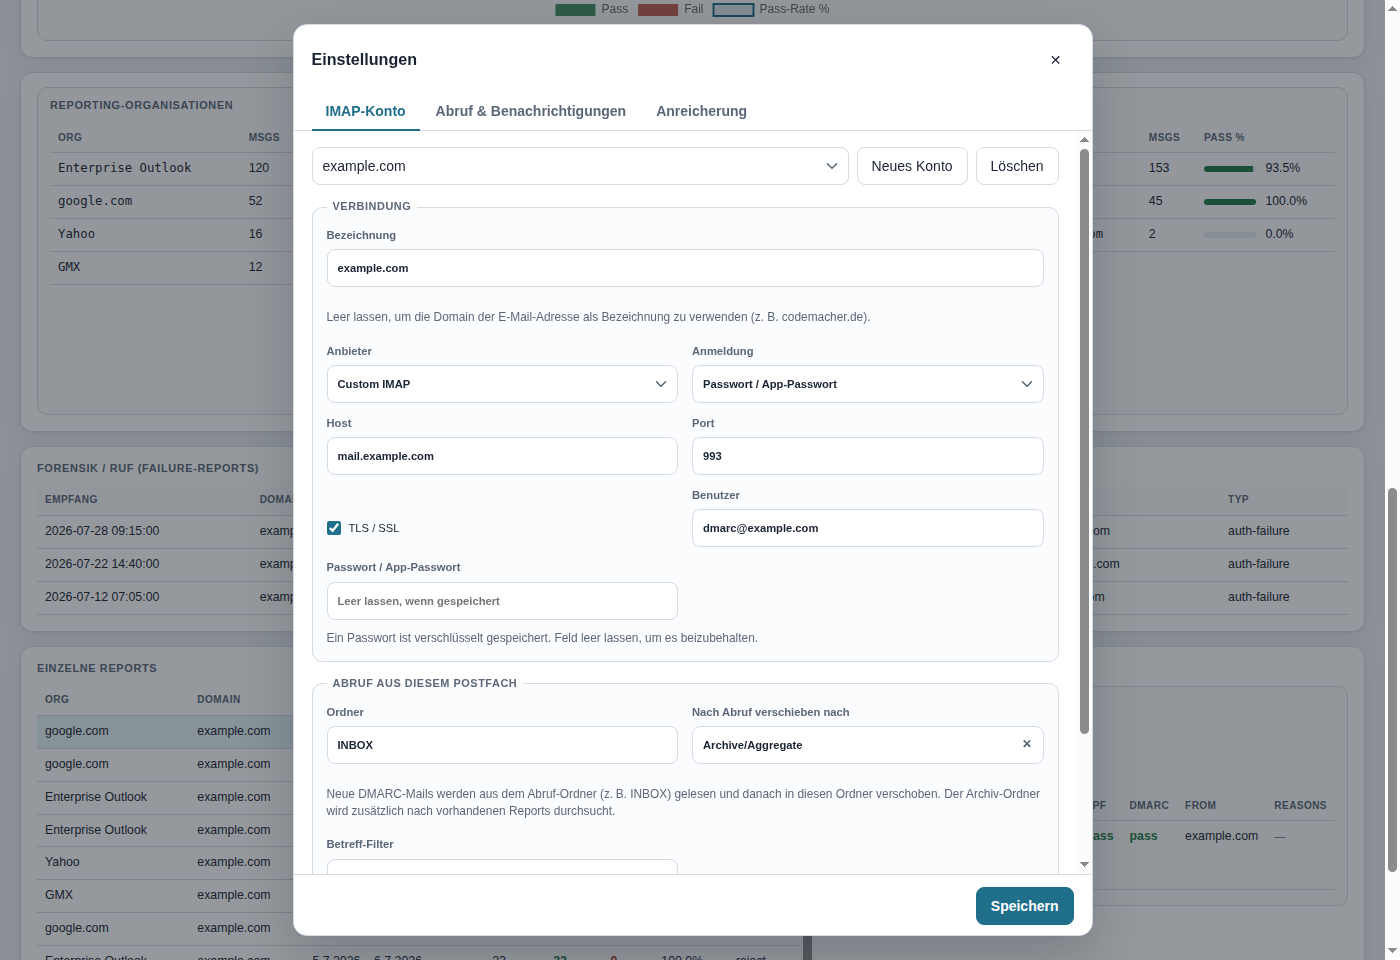
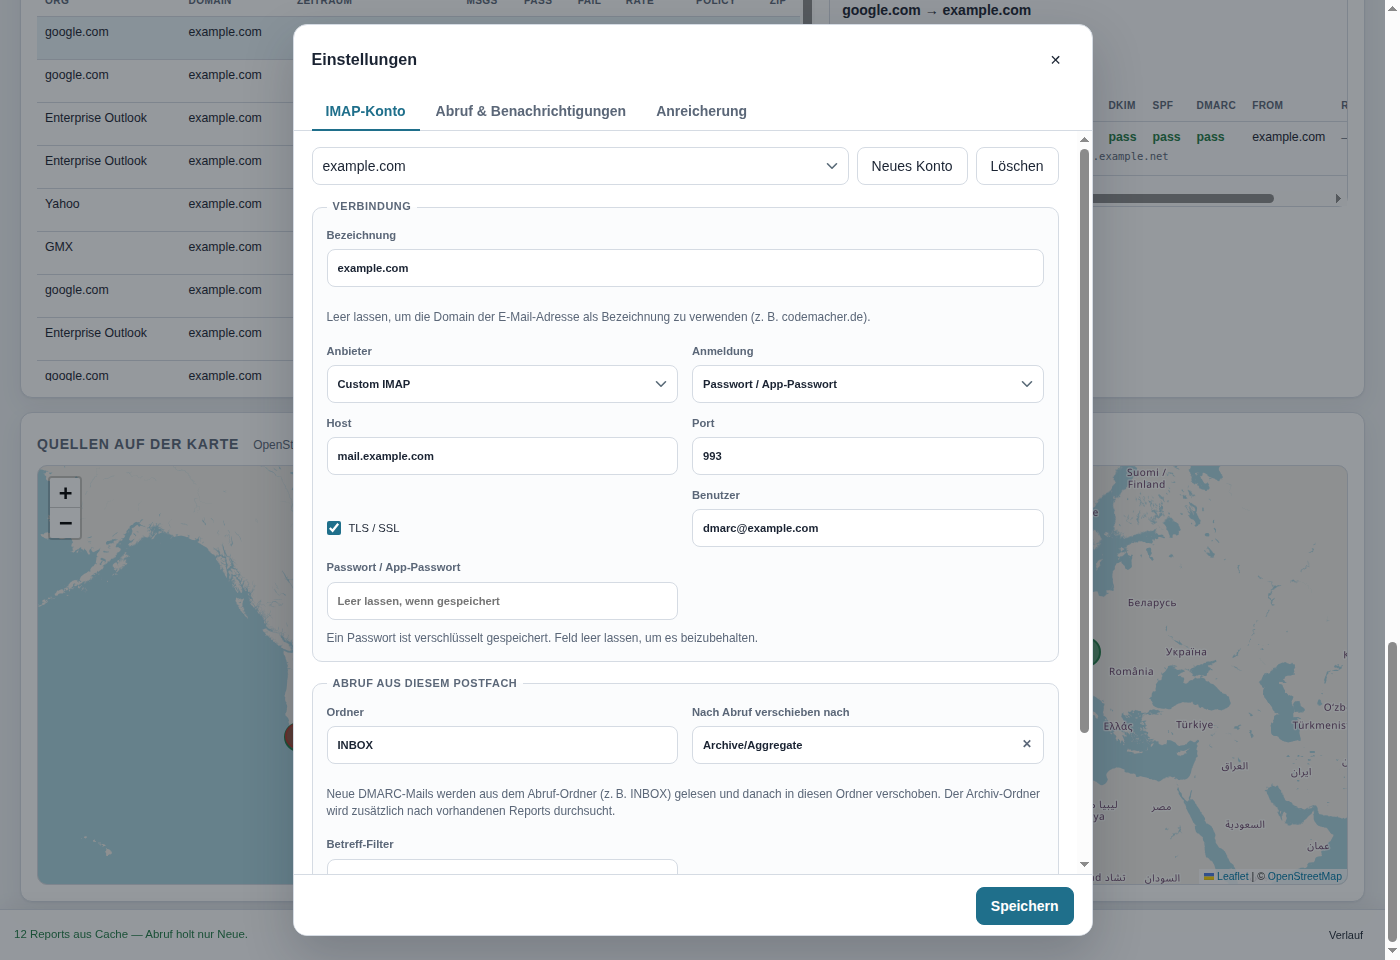
Release v1.0.10.
Document the source map and Google-noise filter, refresh README screenshots (including the map), and bump the version for the release.

diff --git a/src/renderer/src/screenshots.ts b/src/renderer/src/screenshots.ts
@@ -20,74 +20,104 @@ export function installScreenshotApi(): void {
       dnsDomainEl.value = 'example.com'
       dnsResultEl.innerHTML = DEMO_DNS_HTML
       dnsResultEl.className = 'dns-result ok'
-      // Seed PTR labels without calling the network.
-      const demoIp = (
-        ip: string,
-        ptr: string | null,
-        provider: string | null,
-        extra: Partial<IpInfo> = {}
-      ): void => {
-        state.ipLabelCache.set(ip, {
-          ip,
-          ptr,
-          provider,
-          country: extra.country ?? null,
-          countryCode: extra.countryCode ?? null,
-          city: extra.city ?? null,
-          lat: extra.lat ?? null,
-          lon: extra.lon ?? null,
-          asn: extra.asn ?? null,
-          asOrg: extra.asOrg ?? null,
-          cloudProvider: extra.cloudProvider ?? null,
-          dnsblHits: extra.dnsblHits ?? [],
-          geoSource: extra.geoSource ?? 'none'
+      // Seed PTR / Geo labels without calling the network.
+      const seedDemoIps = (): void => {
+        const demoIp = (
+          ip: string,
+          ptr: string | null,
+          provider: string | null,
+          extra: Partial<IpInfo> = {}
+        ): void => {
+          state.ipLabelCache.set(ip, {
+            ip,
+            ptr,
+            provider,
+            country: extra.country ?? null,
+            countryCode: extra.countryCode ?? null,
+            city: extra.city ?? null,
+            lat: extra.lat ?? null,
+            lon: extra.lon ?? null,
+            asn: extra.asn ?? null,
+            asOrg: extra.asOrg ?? null,
+            cloudProvider: extra.cloudProvider ?? null,
+            dnsblHits: extra.dnsblHits ?? [],
+            geoSource: extra.geoSource ?? 'none'
+          })
+        }
+        demoIp('192.0.2.10', 'mail-a.example.net', 'Example Net', {
+          countryCode: 'DE',
+          city: 'Berlin',
+          lat: 52.52,
+          lon: 13.405,
+          asn: 64496,
+          cloudProvider: null
+        })
+        demoIp('192.0.2.40', 'smtp.example.net', 'Example Net', {
+          countryCode: 'DE',
+          city: 'Frankfurt',
+          lat: 50.11,
+          lon: 8.68,
+          asn: 64496
+        })
+        demoIp('192.0.2.41', 'smtp-b.example.net', 'Example Net', {
+          countryCode: 'DE',
+          city: 'München',
+          lat: 48.137,
+          lon: 11.575,
+          asn: 64496
+        })
+        demoIp('192.0.2.80', 'mx.gmx.example', 'GMX', {
+          countryCode: 'DE',
+          city: 'Karlsruhe',
+          lat: 49.0069,
+          lon: 8.4037,
+          asn: 6805
+        })
+        demoIp('198.51.100.20', null, null, {
+          countryCode: 'US',
+          city: 'Mountain View',
+          lat: 37.386,
+          lon: -122.084,
+          asn: 15169,
+          cloudProvider: 'Google',
+          dnsblHits: []
+        })
+        demoIp('198.51.100.55', 'mta.yahoo.example', 'Yahoo', {
+          countryCode: 'US',
+          city: 'Sunnyvale',
+          lat: 37.3688,
+          lon: -122.0363,
+          asn: 10310
+        })
+        demoIp('203.0.113.15', null, null, {
+          countryCode: 'NL',
+          city: 'Amsterdam',
+          lat: 52.3676,
+          lon: 4.9041,
+          dnsblHits: ['spamhaus-zen']
+        })
+        demoIp('203.0.113.80', null, null, {
+          countryCode: 'FR',
+          city: 'Paris',
+          lat: 48.8566,
+          lon: 2.3522
+        })
+        demoIp('2001:db8:1::10', 'ipv6.example.net', 'Example Net', {
+          countryCode: 'DE',
+          city: 'Berlin',
+          lat: 52.52,
+          lon: 13.405,
+          asn: 64496
+        })
+        demoIp('2001:db8:2::22', 'ipv6-b.example.net', 'Example Net', {
+          countryCode: 'AT',
+          city: 'Wien',
+          lat: 48.2082,
+          lon: 16.3738,
+          asn: 64496
         })
       }
-      demoIp('192.0.2.10', 'mail-a.example.net', 'Example Net', {
-        countryCode: 'DE',
-        city: 'Berlin',
-        lat: 52.52,
-        lon: 13.405,
-        asn: 64496,
-        cloudProvider: null
-      })
-      demoIp('192.0.2.40', 'smtp.example.net', 'Example Net', {
-        countryCode: 'DE',
-        city: 'Frankfurt',
-        lat: 50.11,
-        lon: 8.68,
-        asn: 64496
-      })
-      demoIp('198.51.100.20', null, null, {
-        countryCode: 'US',
-        city: 'Mountain View',
-        lat: 37.386,
-        lon: -122.084,
-        asn: 15169,
-        cloudProvider: 'Google',
-        dnsblHits: []
-      })
-      demoIp('198.51.100.55', 'mta.yahoo.example', 'Yahoo', {
-        countryCode: 'US',
-        city: 'Sunnyvale',
-        lat: 37.3688,
-        lon: -122.0363,
-        asn: 10310
-      })
-      demoIp('203.0.113.15', null, null, {
-        countryCode: 'NL',
-        city: 'Amsterdam',
-        lat: 52.3676,
-        lon: 4.9041,
-        dnsblHits: ['spamhaus-zen']
-      })
-      demoIp('2001:db8:1::10', 'ipv6.example.net', 'Example Net', {
-        countryCode: 'DE',
-        city: 'Berlin',
-        lat: 52.52,
-        lon: 13.405,
-        asn: 64496
-      })
+      seedDemoIps()
       state.domainHealthCache = [
         {
           domain: 'example.com',
@@ -106,6 +136,10 @@ export function installScreenshotApi(): void {
       renderDomainAmpel(state.domainHealthCache)
       applyView()
       settingsDialog.close()
+      // Async IP enrichment can overwrite demo coords — re-seed afterwards.
+      await new Promise((r) => setTimeout(r, 900))
+      seedDemoIps()
+      applyView()
       await new Promise((r) => requestAnimationFrame(() => requestAnimationFrame(r)))
     },
     openSettingsDemo(): void {

diff --git a/src/main/screenshots.ts b/src/main/screenshots.ts
@@ -61,6 +61,19 @@ export async function runScreenshotCapture(win: BrowserWindow): Promise<void> {
   await wait(400)
   await capture(win, join(outDir, 'tables.png'))
 
+  await api(
+    win,
+    `const target = document.querySelector('.ip-map-panel')
+     if (target) {
+       const top = target.getBoundingClientRect().top + window.scrollY - 72
+       window.scrollTo({ top: Math.max(0, top), behavior: 'instant' })
+     }
+     // Give Leaflet / OSM tiles a moment to paint.
+     await new Promise((r) => setTimeout(r, 1200))`
+  )
+  await wait(800)
+  await capture(win, join(outDir, 'map.png'))
+
   await api(win, 'api.openSettingsDemo()')
   await wait(500)
   await capture(win, join(outDir, 'settings.png'))

diff --git a/README.de.md b/README.de.md
@@ -50,15 +50,21 @@ Alles läuft lokal auf dem Rechner: Zugangsdaten und OAuth-Tokens bleiben im Ele
 
 ### Dashboard
 
-Kennzahlen, Alignment-Charts (inkl. Disposition), Zeitreihe, Filter sowie integrierter DNS-Check für DMARC, SPF und DKIM-Selektoren:
+Kennzahlen, Alignment-Charts (inkl. Disposition), Zeitreihe, Filter (inkl. optionalem Google-Rauschen-Filter) sowie integrierter DNS-Check für DMARC, SPF und DKIM-Selektoren:
 
 ![Dashboard mit KPIs, Alignment-Charts und DNS-Check](docs/screenshots/dashboard.png)
 
 ### Aggregation & Details
 
-Reporting-Organisationen, Quell-IPs (inkl. Reverse-DNS), From-Domains, einzelne Reports und Record-Details — Klick auf eine Tabellenzeile filtert weiter:
+Reporting-Organisationen, Quell-IPs (inkl. Reverse-DNS), From-Domains, einzelne Reports und Record-Details — Klick auf eine Tabellenzeile filtert weiter; Report als ZIP herunterladen:
 
 ![Tabellen mit Organisationen, IPs, Domains und Report-Details](docs/screenshots/tables.png)
+
+### Quellenkarte
+
+Quell-IPs auf OpenStreetMap (GeoIP-Koordinaten); Klick auf einen Marker filtert nach IP:
+
+![Quell-IPs auf OpenStreetMap](docs/screenshots/map.png)
 
 ### Einstellungen
 
@@ -83,10 +89,12 @@ Mehrere IMAP-Konten, Abruf-/Archiv-Ordner, Auto-Abruf, Alerts, Anreicherung (Geo
 | **Charts** | Doughnut für DMARC-/SPF-/DKIM-Alignment und Disposition (none/quarantine/reject); Volumen & Pass-Rate über Zeit |
 | **Tabellen** | Organisationen, Quell-IPs, From-Domains, einzelne Reports + Record-Details; Klick auf Zeile filtert |
 | **IP-Anreicherung** | Reverse-DNS, bekannte Absender, Cloud-IP-Ranges (AWS/Google/Cloudflare), GeoIP (GeoLite2 offline + optionaler Online-Fallback), DNSBL/DNSWL, RDAP/WHOIS on-demand |
+| **Quellenkarte** | OpenStreetMap mit GeoIP-Positionen der Quell-IPs; Marker-Klick filtert nach IP |
 | **Domain-Ampel** | Multi-Domain-Status (Pass-Rate + DMARC/SPF/DKIM-DNS); Klick filtert auf die Domain |
 | **Filter** | Zeitraum (7 / 30 / 90 Tage / Gesamt / benutzerdefiniert), Domain sowie Drill-Down nach Org, Quell-IP und From-Domain |
+| **Google-Rauschen** | Optionaler, gespeicherter Filter für Google-Weiterleitungs-/Report-Echo-Zeilen (Google-IP + SPF fail + DKIM pass + DMARC pass) |
 | **DNS-Check** | Live-Abfrage von DMARC (`p`, `rua`), SPF und DKIM-Selektoren (automatisch aus den Reports oder manuell) |
-| **Export** | Aktuell gefilterte Daten als CSV oder JSON |
+| **Export** | Aktuell gefilterte Daten als CSV oder JSON; einzelne Aggregate-Reports als ZIP (XML) |
 | **Auto-Abruf** | Optionales Intervall über alle Konten + Desktop-Benachrichtigung bei steigenden Failures |
 | **Alerts** | Pass-Rate-Schwelle (7 Tage) und „neue Quelle erkannt“ mit Ignorieren-Liste für bekannte IPs |
 | **System-Tray** | Optional im Hintergrund weiterlaufen; Abruf und Benachrichtigungen auch bei geschlossenem Fenster |
@@ -138,7 +146,7 @@ Auto-Update greift in gepackten Builds (nicht im Dev-Modus). Portable-EXE und `.
 1. **Einstellungen** → **IMAP-Konto** öffnen, Anbieter/Host sowie App-Passwort oder OAuth setzen und speichern. Bei Bedarf weitere Konten anlegen.
 2. Optional eine kurze **Bezeichnung** setzen (leer = Domain der E-Mail-Adresse, z. B. `codemacher.de`). Bei Bedarf **Verbindung testen**. Unter **Abruf & Benachrichtigungen** OAuth-Client-IDs, Auto-Abruf, Alerts, System-Tray, Autostart und Sprache konfigurieren. Unter **Anreicherung** GeoLite2-Key/Download, optionalen Online-Geo-Fallback, DNSBL, Cloud-Ranges und RDAP einstellen.
 3. Im Hauptfenster **Reports abrufen** — oder XML/GZ/ZIP/EML per **Dateien** / Drag & Drop laden. Bei mehreren Konten über den Konto-Filter umschalten.
-4. Mit Zeitraum (inkl. benutzerdefiniert Von/Bis), Domain, Domain-Ampel oder per Klick auf Org-/IP-/From-Zeilen eingrenzen; Charts, Aggregate-Tabellen und die Forensik-/RUF-Tabelle prüfen; bei Bedarf exportieren. Über ℹ an einer IP Geo/ASN/DNSBL und RDAP on-demand öffnen.
+4. Mit Zeitraum (inkl. benutzerdefiniert Von/Bis), Domain, Domain-Ampel oder per Klick auf Org-/IP-/From-Zeilen (oder Kartenmarker) eingrenzen; optional **Google-Rauschen ausblenden**, um Google-Report-Echo-Hops zu entfernen. Charts, Aggregate-Tabellen, Forensik-/RUF-Tabelle und Quellenkarte prüfen; bei Bedarf exportieren. Über ℹ an einer IP Geo/ASN/DNSBL und RDAP on-demand öffnen; einzelne Reports als ZIP laden.
 5. Domains im **DNS-Check** gegenprüfen (Policy `p`, Reporting-URI `rua`, SPF sowie DKIM-Selektoren aus den Reports oder manuell).
 
 > Tipp: Betreff-Filter erweitern oder leer lassen, wenn RUA und RUF aus demselben Postfach kommen sollen.

diff --git a/README.md b/README.md
@@ -50,15 +50,21 @@ Everything runs locally on your machine: credentials and OAuth tokens stay in th
 
 ### Dashboard
 
-KPIs, alignment charts (including disposition), time series, filters, and a built-in DNS check for DMARC, SPF, and DKIM selectors:
+KPIs, alignment charts (including disposition), time series, filters (including optional Google-noise filter), and a built-in DNS check for DMARC, SPF, and DKIM selectors:
 
 ![Dashboard with KPIs, alignment charts, and DNS check](docs/screenshots/dashboard.png)
 
 ### Aggregation & details
 
-Reporting organizations, source IPs (including reverse DNS), From domains, individual reports, and record details — click a table row to drill down:
+Reporting organizations, source IPs (including reverse DNS), From domains, individual reports and record details — click a table row to drill down; download a report as ZIP:
 
 ![Tables with organizations, IPs, domains, and report details](docs/screenshots/tables.png)
+
+### Source map
+
+Source IPs on OpenStreetMap (GeoIP coordinates); click a marker to filter by IP:
+
+![Source IPs on an OpenStreetMap](docs/screenshots/map.png)
 
 ### Settings
 
@@ -83,10 +89,12 @@ Multiple IMAP accounts, fetch/archive folders, auto-fetch, alerts, enrichment (G
 | **Charts** | Doughnuts for DMARC/SPF/DKIM alignment and disposition (none/quarantine/reject); volume & pass rate over time |
 | **Tables** | Organizations, source IPs, From domains, individual reports + record details; click a row to filter |
 | **IP enrichment** | Reverse DNS, known senders, cloud IP ranges (AWS/Google/Cloudflare), GeoIP (GeoLite2 offline + optional online fallback), DNSBL/DNSWL, on-demand RDAP/WHOIS |
+| **Source map** | OpenStreetMap with GeoIP positions of source IPs; marker click drills down by IP |
 | **Domain health** | Multi-domain traffic-light (pass rate + DMARC/SPF/DKIM DNS status); click to filter |
 | **Filters** | Date range (7 / 30 / 90 days / all / custom), domain, plus drill-down by org, source IP, and From domain |
+| **Google noise filter** | Optional, persisted filter that hides Google forwarding / report-echo rows (Google IP + SPF fail + DKIM pass + DMARC pass) |
 | **DNS check** | Live lookup of DMARC (`p`, `rua`), SPF, and DKIM selectors (auto-collected from reports or manual) |
-| **Export** | Currently filtered data as CSV or JSON |
+| **Export** | Currently filtered data as CSV or JSON; single aggregate reports as ZIP (XML) |
 | **Auto-fetch** | Optional interval across all accounts + desktop notification when failures increase |
 | **Alerts** | Pass-rate threshold (7 days) and "new source detected" with an ignore list for known IPs |
 | **System tray** | Optionally keep running in the background; fetching and notifications continue with the window closed |
@@ -138,7 +146,7 @@ Auto-update works in packaged builds (not in dev mode). Portable EXE and `.deb` 
 1. Open **Settings** → **IMAP account**, set provider/host and either an app password or OAuth, then save. Add further accounts if needed.
 2. Optionally set a short **display name** (empty = email domain, e.g. `codemacher.de`). **Test connection** if needed. Under **Fetch & notifications**, configure OAuth client IDs, auto-fetch, alerts, system tray, autostart, and language. Under **Enrichment**, configure GeoLite2 license key / download, optional online Geo-IP fallback, DNSBL, cloud ranges, and RDAP.
 3. In the main window, **Fetch reports** — or load XML/GZ/ZIP/EML via **Files** / drag & drop. With multiple accounts, switch via the account filter.
-4. Narrow with date range (including custom From/To), domain, domain-health tiles, or by clicking a row in the org / IP / From tables; review charts, aggregate tables, and the forensic/RUF table; export if needed. Open IP details (ℹ) for Geo/ASN/DNSBL and on-demand RDAP.
+4. Narrow with date range (including custom From/To), domain, domain-health tiles, or by clicking a row in the org / IP / From tables (or a map marker); optionally enable **Hide Google noise** to drop Google report-echo hops. Review charts, aggregate tables, the forensic/RUF table, and the source map; export if needed. Open IP details (ℹ) for Geo/ASN/DNSBL and on-demand RDAP; download individual reports as ZIP.
 5. Cross-check domains in the **DNS check** (policy `p`, reporting URI `rua`, SPF, and DKIM selectors from the reports or entered manually).
 
 > Tip: Broaden the subject filter (or leave it empty) if you want both RUA and RUF messages from the same mailbox.
